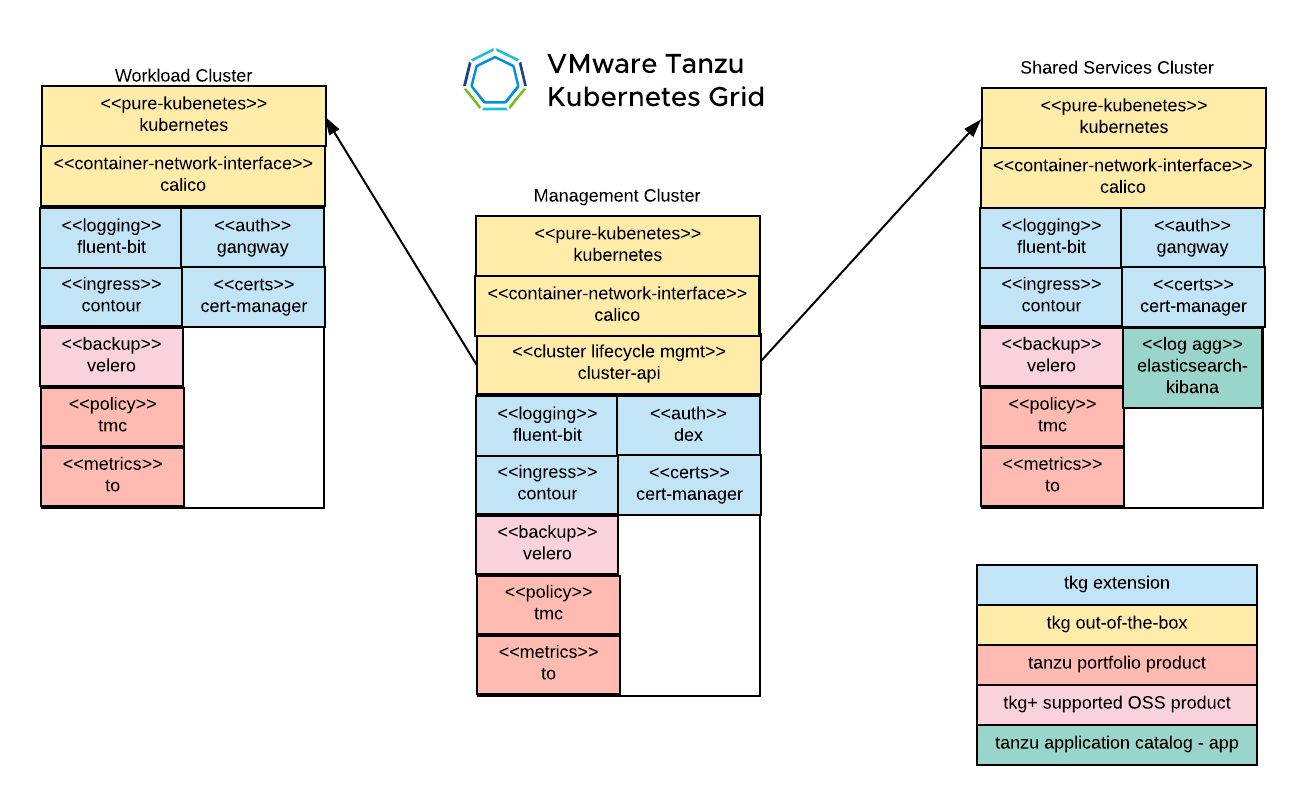
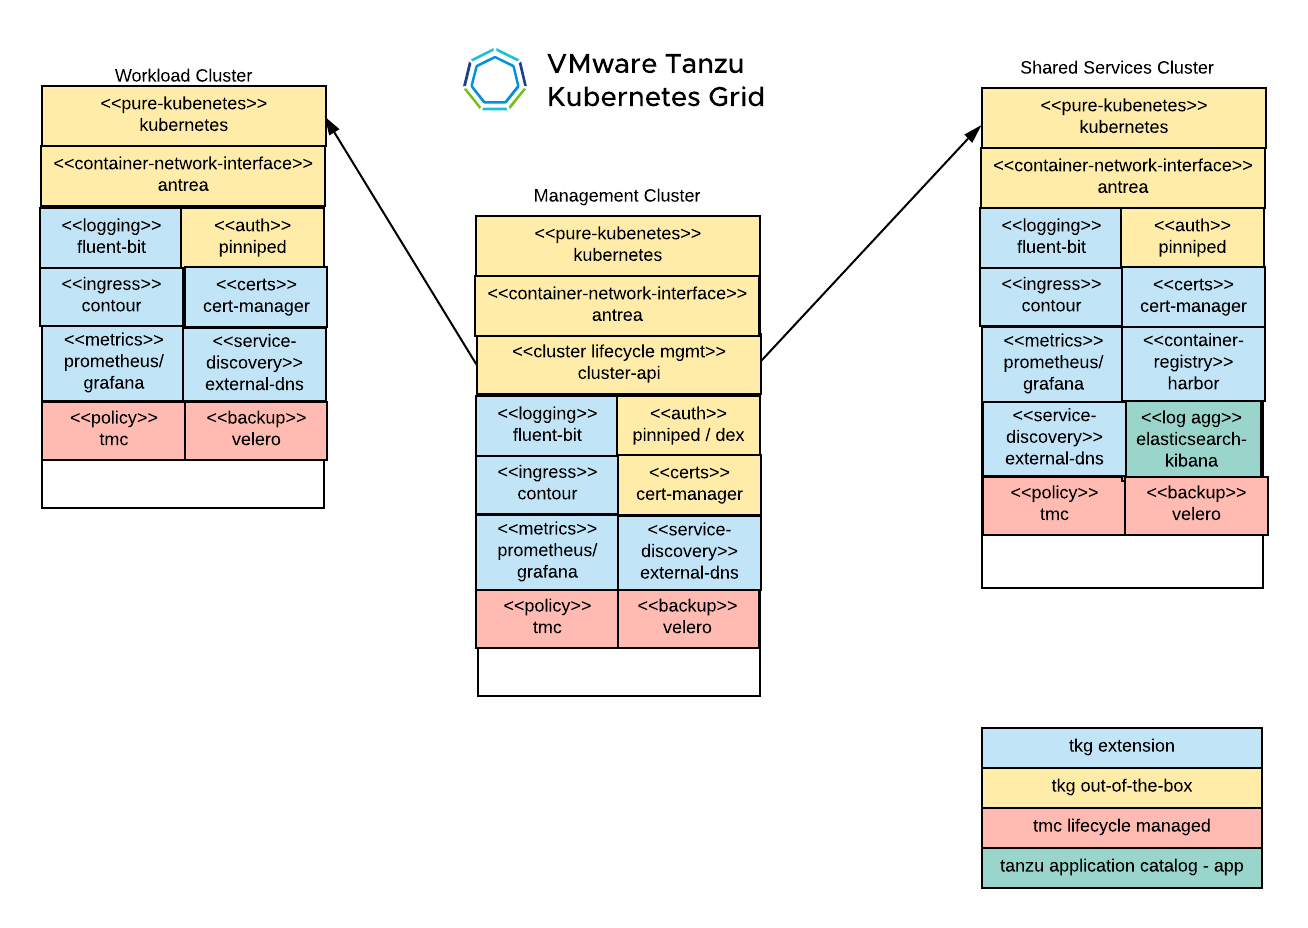
Updates to readmes

diff --git a/Readme.md b/Readme.md
@@ -3,31 +3,31 @@
 ![TKG Lab Base Diagram](docs/tkg-lab-base.png)
 ![TKG Lab Deployment Diagram](docs/tkg-deployment.png)
 
-In this lab, we will deploy Tanzu Kubernetes Grid (standalone deployment model) to AWS or vSphere.  We will additionally deploy TKG extensions for ingress, authentication, and logging.
+In this lab, we will deploy Tanzu Kubernetes Grid to vSphere, AWS, or Azure.  We will additionally deploy TKG extensions for ingress, logging, metrics, and container registry services.
 
 OSS Signed and Supported Extensions:
 
 - **Contour** for ingress
-- **Dex** and **Gangway** for authentication
 - **Fluent-bit** for logging
 - **Cert-manager** for certificate management
 - **Harbor** for image registry
-- **Velero** for backup, via Tanzu Mission Control
+- **Velero** for backup/restore, via Tanzu Mission Control
+- **Prometheus** and **Grafana** for monitoring
+- **External DNS** as Kubernetes native way to manage DNS records
 
 Incorporates the following Tanzu SaaS products:
 
 - **Tanzu Mission Control** for multi-cluster management
-- **Tanzu Observability** by Wavefront for observability
+- **Tanzu Observability** by Wavefront for enterprise full-stack observability (via optional Bonus Lab)
 
 Leverages the following external services:
 
 - **AWS S3** as an object store for Velero backups
-- **AWS Route 53** as DNS provider
+- **AWS Route 53** or **GCP Cloud DNS*** as DNS provider
 - **Okta** as an OIDC provider
 - **Let's Encrypt** as Certificate Authority
 
 Additional OSS components not supported by VMware
-- **External DNS** as Kubernetes native way to manage DNS records
 - **Elasticsearch and Kibana** for log aggregation and viewing
 
 ## Goals and Audience
@@ -36,7 +36,7 @@ The following demo is for Tanzu field team members to see how various components
 
 What we do have is a combination of open source and proprietary components, with a bias towards providing VMware built/signed OSS components by default, with flexibility to swap components and flexible integrations.
 
-VMware commercial products included are: TKG, TO, TMC and OSS products.
+VMware commercial products included are: TKG, TO and TMC.
 
 3rd-party SaaS services included are: AWS S3, AWS Route 53, GCP Cloud DNS, Let's Encrypt, Okta.  Note: There is flexibility in deployment planning.  For instance, You could Swap GCP Cloud DNS with Route53.  Or you could swap Okta for Google or Auth0 for OpenID Connect.
 
@@ -84,7 +84,7 @@ Wow, that was awesome, what happened on the other side of the request for platfo
 - tkg
 - velero
 - helm 3
-- [yq version 3.4+](https://github.com/mikefarah/yq) (to install use `brew` for Mac and `apt-get` for Linux).  **Do not use yq version 4.x**
+- [yq version 4.x+](https://github.com/mikefarah/yq) (to install use `brew` for Mac and `apt-get` for Linux).
 - kind (helpful, but not required)
 - ytt, kapp, imgpkg, kbld (bundled with tkg)
 

diff --git a/docs/baseline-lab-setup/step-by-step.md b/docs/baseline-lab-setup/step-by-step.md
@@ -2,7 +2,7 @@
 
 The following labs guide you through the steps to create the three clusters considered the baseline setup.
 
->Note: The labs depending on a master `params.yaml` file that is used for environment specific configuration data.  A sample `REDACTED-params.yaml` file is included at the root of this repo, named REDACTED-params.yaml.  It is recommended you copy this file and rename it to params.yaml and place it in the `local-config/` directory, and then start making your adjustments.  `local-config/` is included in the `.gitignore` so your version won't be included in an any future commits you have to the repo.
+>Note: The labs depend on a master `params.yaml` file that is used for environment specific configuration data.  A sample `REDACTED-params.yaml` file is included at the root of this repo, named REDACTED-params.yaml.  It is recommended you copy this file and rename it to params.yaml and place it in the `local-config/` directory, and then start making your adjustments.  `local-config/` is included in the `.gitignore` so your version won't be included in an any future commits you have to the repo.
 
 ## Setup Environment Variable for params.yaml
 
@@ -28,12 +28,11 @@ export PARAMS_YAML=local-config/params.yaml
 ### 2. [Attach Shared Services Cluster to TMC](../shared-services-cluster/02_attach_tmc_ssc.md)
 ### 3. [Set policy on Shared Services Cluster and Namespace](../shared-services-cluster/03_policy_ssc.md)
 ### 4. [Install Contour Ingress Controller](../shared-services-cluster/04_contour_ssc.md)
-### 5. [Install Gangway](../shared-services-cluster/05_gangway_ssc.md)
-### 6. [Install ElasticSearch and Kibana](../shared-services-cluster/06_ek_ssc.md)
-### 7. [Install FluentBit](../shared-services-cluster/07_fluentbit_ssc.md)
-### 8. [Install Tanzu Observability](../shared-services-cluster/08_to_ssc.md)
-### 9. [Enable Data Protection and Setup Nightly Backup](../shared-services-cluster/09_velero_ssc.md)
-### 10. [Install Harbor](../shared-services-cluster/10_harbor.md)
+### 5. [Install ElasticSearch and Kibana](../shared-services-cluster/06_ek_ssc.md)
+### 6. [Install FluentBit](../shared-services-cluster/07_fluentbit_ssc.md)
+### 7. [Install Tanzu Observability](../shared-services-cluster/08_to_ssc.md)
+### 8. [Enable Data Protection and Setup Nightly Backup](../shared-services-cluster/09_velero_ssc.md)
+### 9. [Install Harbor](../shared-services-cluster/10_harbor.md)
 
 ## Finalize Management Cluster
 ### 1. [Install FluentBit](../mgmt-cluster/09_fluentbit_mgmt.md)
